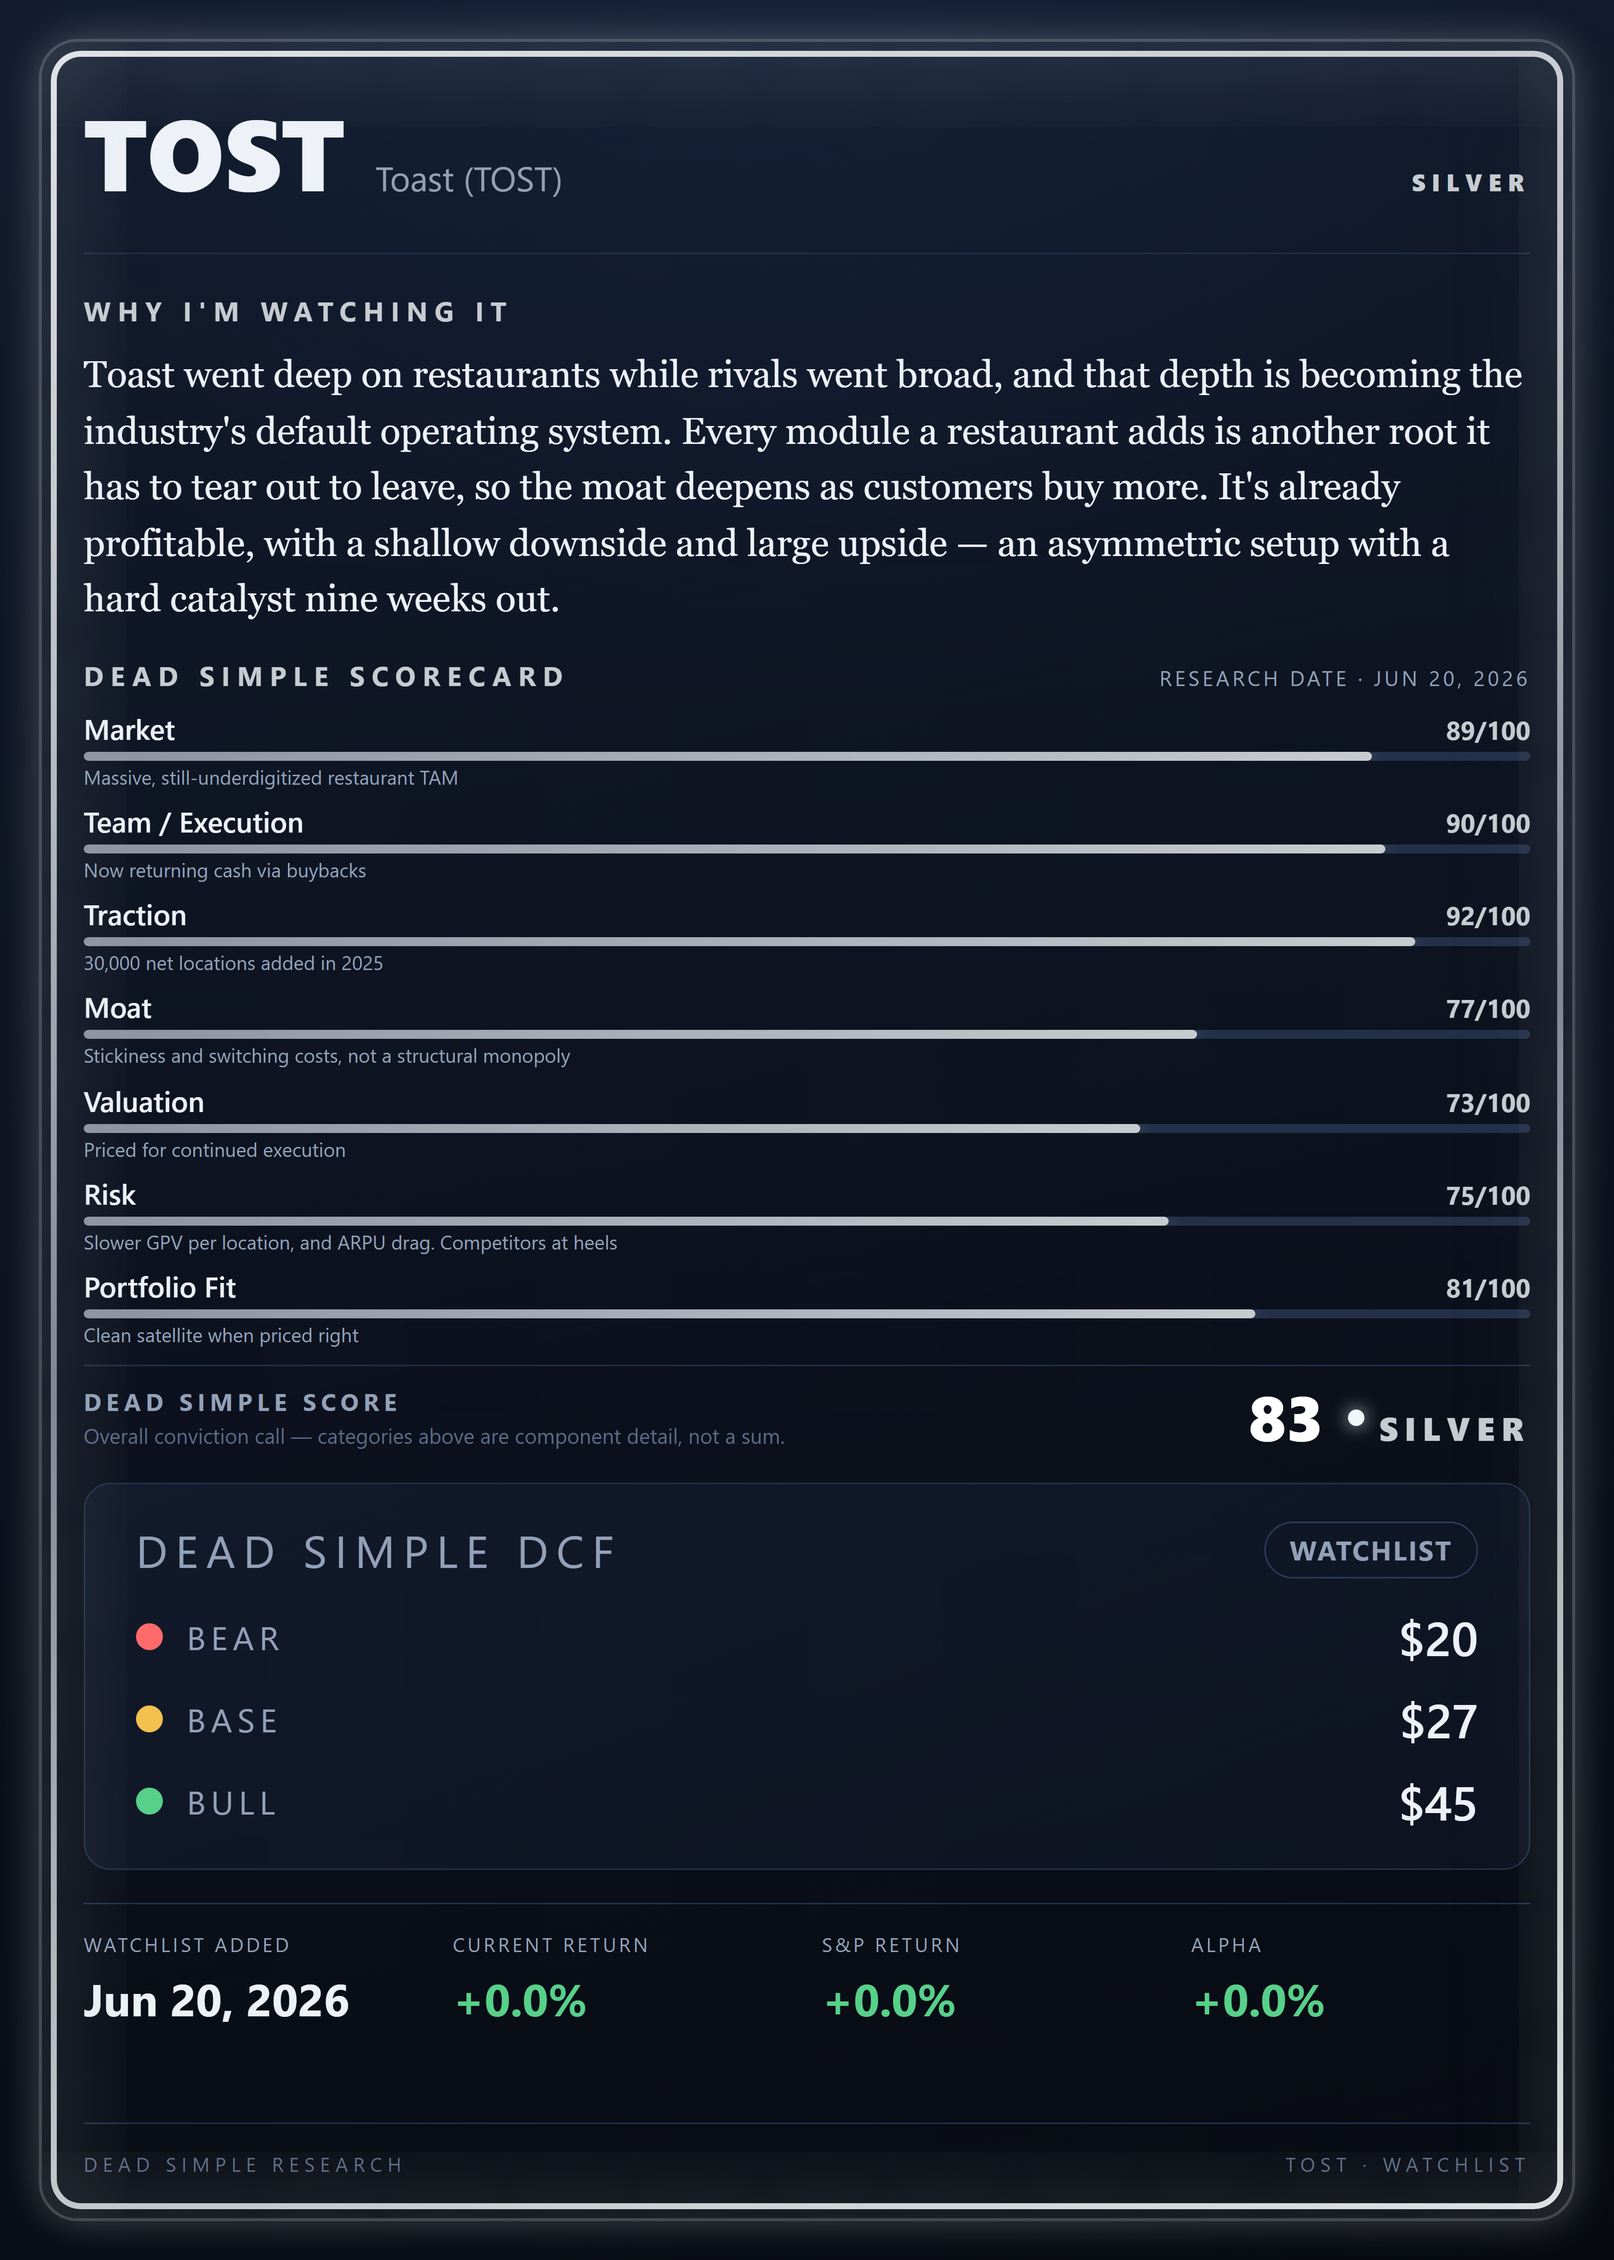
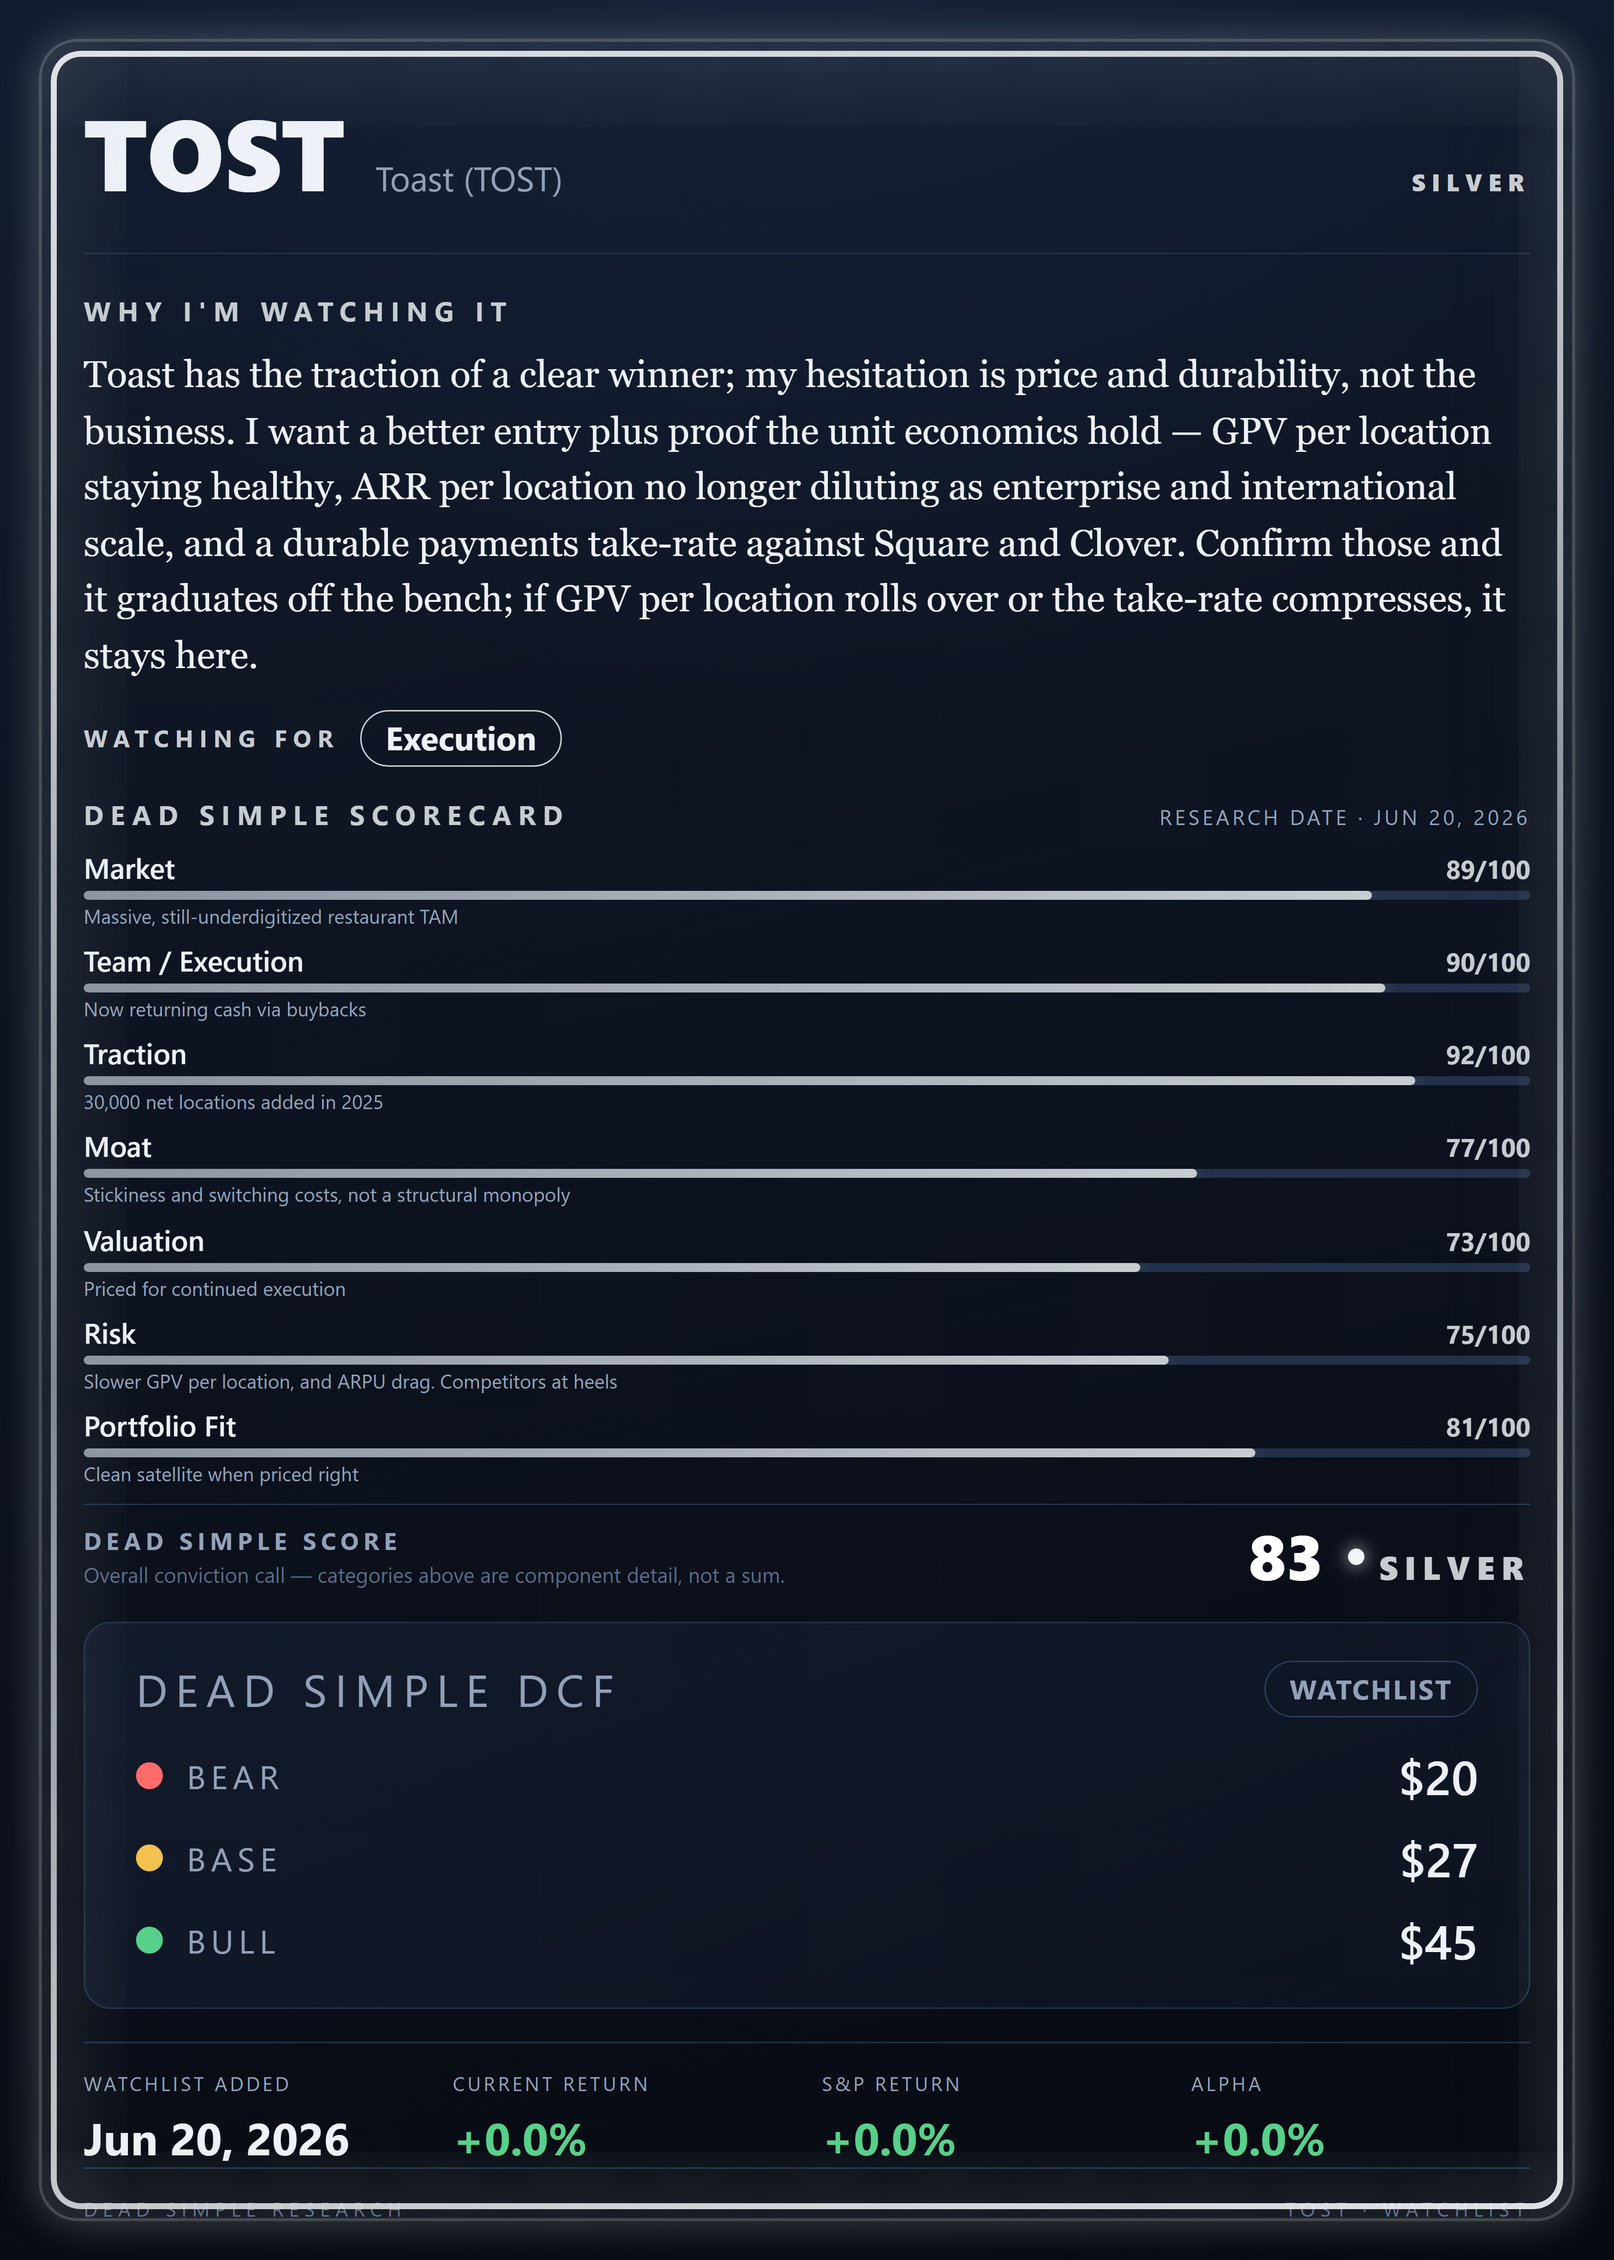
Publish TOST

diff --git a/cards/TOST/card.html b/cards/TOST/card.html
@@ -999,9 +999,14 @@ html, body {
 
     <div class="section">
       <div class="label">Why I&#39;m Watching It</div>
-      <div class="body thesis">Toast went deep on restaurants while rivals went broad, and that depth is becoming the industry&#39;s default operating system. Every module a restaurant adds is another root it has to tear out to leave, so the moat deepens as customers buy more. It&#39;s already profitable, with a shallow downside and large upside — an asymmetric setup with a hard catalyst nine weeks out.</div>
+      <div class="body thesis">Toast has the traction of a clear winner; my hesitation is price and durability, not the business. I want a better entry plus proof the unit economics hold — GPV per location staying healthy, ARR per location no longer diluting as enterprise and international scale, and a durable payments take-rate against Square and Clover. Confirm those and it graduates off the bench; if GPV per location rolls over or the take-rate compresses, it stays here.</div>
     </div>
 
+    
+    <div class="watching-for">
+      <span class="label">Watching For</span>
+      <span class="wf-value">Execution</span>
+    </div>
     
 
     <div class="scorecard">

diff --git a/cards/TOST/video_talking_points.md b/cards/TOST/video_talking_points.md
@@ -1,7 +1,8 @@
 # TOST — Video Talking Points
 
 - Toast is the technology a restaurant runs on — payments, ordering, kitchen displays, payroll, online orders, all in one system.
-- Why now: it's profitable, earnings have beaten four quarters running with accelerating beats, and a hard catalyst lands August 3.
+- Why now: it's profitable, earnings have beaten estimates four quarters running with accelerating beats, and a former bear just flipped.
 - The bull point: every module a restaurant adds makes leaving harder, so the moat deepens as customers buy more.
 - The main risk: most revenue is thin-margin payment processing, and the per-check take rate is contestable if Square starts a price war.
-- The verdict: a watchlist name with real asymmetry — buy a starter, let August 3 confirm or kill it.
+- The verdict: watch and buy a starter — the asymmetry is real and the catalyst is nine weeks out.
+- August 3 confirms or kills it: revenue up 20%+ with EPS, size up; single-digit revenue or dilution over 5%, walk.

diff --git a/cards/TOST/x_post.md b/cards/TOST/x_post.md
@@ -1,1 +1,1 @@
-Toast ($TOST) is becoming the default operating system for restaurants — and the moat deepens with every module a customer adds. Profitable, asymmetric, and a dated catalyst on Aug 3. Dead Simple Score: 83/100. On the watchlist, buying a starter.
+$TOST is the operating system restaurants run on — profitable now, four accelerating earnings beats, and a deepening switching-cost moat. Dead Simple Score 83. Watching for a better entry and proof the take rate holds. Aug 3 decides it.
